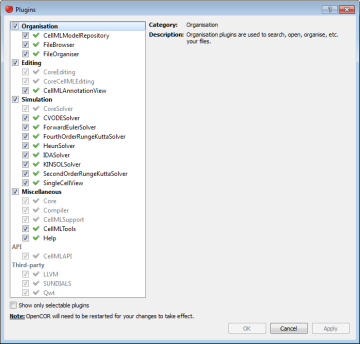
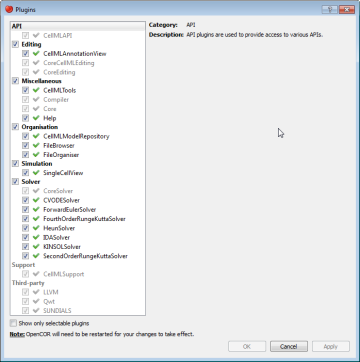
Some updates to our user documentation [ci skip].

diff --git a/doc/user/plugins/index.html b/doc/user/plugins/index.html
@@ -19,15 +19,15 @@
         </script>
 
         <p>
-            OpenCOR is a plugin-based application. This means that if no plugins are selected, then OpenCOR can do <a href="../userInterfaces/graphicalUserInterface.html">next to nothing</a>.
+            OpenCOR is a plugin-based application. This means that if no plugins are selected, then OpenCOR can do next to nothing (scroll down near the end of <a href="../userInterfaces/graphicalUserInterface.html">this page</a>).
         </p>
 
         <p>
-            As can be seen by opening the Plugins dialog box (<span class="opencor">either </span>by selecting the <code>Tools</code> | <code>Plugins...</code> menu<span class="opencor"> or by clicking <a href="gui://openPluginsDialogBox">here</a></span>) and by unselecting <code>Show only selectable plugins</code> (if necessary), OpenCOR supports different types of plugins (Organisation, Editing, Simulation, Miscellaneous, API and Third-party; see below):
+            As can be seen by opening the Plugins dialog box (<span class="opencor">either </span>by selecting the <code>Tools</code> | <code>Plugins...</code> menu<span class="opencor"> or by clicking <a href="gui://openPluginsDialogBox">here</a></span>) and by unselecting <code>Show only selectable plugins</code> (if necessary), OpenCOR supports different types of plugins:
         </p>
 
         <p class="center">
-            <a class="noHover" href="../res/image.html?image=../plugins/res/pics/screenshot01.png&caption=Plugins window"><img class="link" src="res/pics/screenshot01Small.png" width=360 height=344 alt="Plugins window"></a>
+            <a class="noHover" href="../res/image.html?image=../plugins/res/pics/screenshot01.png&caption=Plugins window"><img class="link" src="res/pics/screenshot01Small.png" width=360 height=362 alt="Plugins window"></a>
         </p>
 
         <p>
@@ -44,17 +44,15 @@
         </ul>
 
         <div class="section">
-            Organisation
+            API
         </div>
 
         <p>
-            Organisation plugins are used to search, open, organise, etc. your files:
+            (Non-selectable) API plugins are used to provide access to various APIs:
         </p>
 
         <ul>
-            <li><strong><a href="CellMLModelRepository.html">CellMLModelRepository</a>:</strong> a plugin to access the <a href="http://models.cellml.org/">CellML Model Repository</a>.</li>
-            <li><strong><a href="FileBrowser.html">FileBrowser</a>:</strong> a plugin to access your local files.</li>
-            <li><strong><a href="FileOrganiser.html">FileOrganiser</a>:</strong> a plugin to virtually organise your files.</li>
+            <li><strong>CellMLAPI:</strong> a plugin to access the <a href="http://cellml-api.sourceforge.net/">CellML API</a>.</li>
         </ul>
 
         <div class="section">
@@ -62,7 +60,7 @@
         </div>
 
         <p>
-            Editing plugins are used to edit part or all of your files using one of several possible views:
+            Editing plugins are used to edit your files:
         </p>
 
         <ul>
@@ -74,35 +72,8 @@
         </p>
 
         <ul>
-            <li><strong>CoreEditing:</strong> the core editing plugin.</li>
             <li><strong>CoreCellMLEditing:</strong> the core <a href="http://www.cellml.org/">CellML</a> editing plugin.</li>
-        </ul>
-
-        <div class="section">
-            Simulation
-        </div>
-
-        <p>
-            Simulation plugins are used to simulate or to help you simulate your files:
-        </p>
-
-        <ul>
-            <li><strong>CVODESolver:</strong> a plugin that uses <a href="http://computation.llnl.gov/casc/sundials/description/description.html#descr_cvode">CVODE</a> to solve ODEs.</li>
-            <li><strong>ForwardEulerSolver:</strong> a plugin that implements the <a href="http://en.wikipedia.org/wiki/Euler_method">Forward Euler method</a> to solve ODEs.</li>
-            <li><strong>FourthOrderRungeKuttaSolver:</strong> a plugin that implements the fourth-order <a href="http://en.wikipedia.org/wiki/Runge–Kutta_methods">Runge-Kutta method</a> to solve ODEs.</li>
-            <li><strong>HeunSolver:</strong> a plugin that implements the <a href="http://en.wikipedia.org/wiki/Heun's_method">Heun method</a> to solve ODEs.</li>
-            <li><strong>IDASolver:</strong> a plugin that uses <a href="http://computation.llnl.gov/casc/sundials/description/description.html#descr_ida">IDA</a> to solve DAEs.</li>
-            <li><strong>KINSOLSolver:</strong> a plugin that uses <a href="http://computation.llnl.gov/casc/sundials/description/description.html#descr_kinsol">KINSOL</a> to solve non-linear algebraic systems.</li>
-            <li><strong>SecondOrderRungeKuttaSolver:</strong> a plugin that implements the second-order <a href="http://en.wikipedia.org/wiki/Runge–Kutta_methods">Runge-Kutta method</a> to solve ODEs.</li>
-            <li><strong><a href="SingleCellView.html">SingleCellView</a>:</strong> a plugin to run single cell simulations.</li>
-        </ul>
-
-        <p>
-            There is also a non-selectable Simulation plugin:
-        </p>
-
-        <ul>
-            <li><strong>CoreSolver:</strong> the core solver plugin.</li>
+            <li><strong>CoreEditing:</strong> the core editing plugin.</li>
         </ul>
 
         <div class="section">
@@ -123,21 +94,72 @@
         </p>
 
         <ul>
-            <li><strong>Core:</strong> the core plugin.</li>
             <li><strong>Compiler:</strong> a plugin to support code compilation.</li>
-            <li><strong>CellMLSupport:</strong> a plugin to support <a href="http://www.cellml.org/">CellML</a>.</li>
+            <li><strong>Core:</strong> the core plugin.</li>
         </ul>
 
         <div class="section">
-            API
+            Organisation
         </div>
 
         <p>
-            (Non-selectable) API plugins are used to provide access to external APIs:
+            Organisation plugins are used to organise your files:
         </p>
 
         <ul>
-            <li><strong>CellMLAPI:</strong> a plugin to access the <a href="http://cellml-api.sourceforge.net/">CellML API</a>.</li>
+            <li><strong><a href="CellMLModelRepository.html">CellMLModelRepository</a>:</strong> a plugin to access the <a href="http://models.cellml.org/">CellML Model Repository</a>.</li>
+            <li><strong><a href="FileBrowser.html">FileBrowser</a>:</strong> a plugin to access your local files.</li>
+            <li><strong><a href="FileOrganiser.html">FileOrganiser</a>:</strong> a plugin to virtually organise your files.</li>
+        </ul>
+
+        <div class="section">
+            Simulation
+        </div>
+
+        <p>
+            Simulation plugins are used to simulate your files:
+        </p>
+
+        <ul>
+            <li><strong><a href="SingleCellView.html">SingleCellView</a>:</strong> a plugin to run single cell simulations.</li>
+        </ul>
+
+        <div class="section">
+            Solver
+        </div>
+
+        <p>
+            Solver plugins are used to provide access to various solvers:
+        </p>
+
+        <ul>
+            <li><strong>CVODESolver:</strong> a plugin that uses <a href="http://computation.llnl.gov/casc/sundials/description/description.html#descr_cvode">CVODE</a> to solve ODEs.</li>
+            <li><strong>ForwardEulerSolver:</strong> a plugin that implements the <a href="http://en.wikipedia.org/wiki/Euler_method">Forward Euler method</a> to solve ODEs.</li>
+            <li><strong>FourthOrderRungeKuttaSolver:</strong> a plugin that implements the fourth-order <a href="http://en.wikipedia.org/wiki/Runge–Kutta_methods">Runge-Kutta method</a> to solve ODEs.</li>
+            <li><strong>HeunSolver:</strong> a plugin that implements the <a href="http://en.wikipedia.org/wiki/Heun's_method">Heun method</a> to solve ODEs.</li>
+            <li><strong>IDASolver:</strong> a plugin that uses <a href="http://computation.llnl.gov/casc/sundials/description/description.html#descr_ida">IDA</a> to solve DAEs.</li>
+            <li><strong>KINSOLSolver:</strong> a plugin that uses <a href="http://computation.llnl.gov/casc/sundials/description/description.html#descr_kinsol">KINSOL</a> to solve non-linear algebraic systems.</li>
+            <li><strong>SecondOrderRungeKuttaSolver:</strong> a plugin that implements the second-order <a href="http://en.wikipedia.org/wiki/Runge–Kutta_methods">Runge-Kutta method</a> to solve ODEs.</li>
+        </ul>
+
+        <p>
+            There is also a non-selectable Solver plugin:
+        </p>
+
+        <ul>
+            <li><strong>CoreSolver:</strong> the core solver plugin.</li>
+        </ul>
+
+        <div class="section">
+            Support
+        </div>
+
+        <p>
+            (Non-selectable) support plugins are used to provide support for various third-party libraries and APIs:
+        </p>
+
+        <ul>
+            <li><strong>CellMLSupport:</strong> a plugin to support <a href="http://www.cellml.org/">CellML</a>.</li>
         </ul>
 
         <div class="section">
@@ -145,13 +167,13 @@
         </div>
 
         <p>
-            (Non-selectable) third-party plugins are used to provide access to third-party libraries:
+            (Non-selectable) third-party plugins are used to provide access to various third-party libraries:
         </p>
 
         <ul>
             <li><strong>LLVM:</strong> a plugin to access <a href="http://www.llvm.org/">LLVM</a> (as well as <a href="http://clang.llvm.org/">Clang</a>).</li>
-            <li><strong>SUNDIALS:</strong> a plugin to access <a href="http://computation.llnl.gov/casc/sundials/description/description.html#descr_cvode">CVODE</a>, <a href="http://computation.llnl.gov/casc/sundials/description/description.html#descr_ida">IDA</a> and <a href="http://computation.llnl.gov/casc/sundials/description/description.html#descr_kinsol">KINSOL</a> from the <a href="http://computation.llnl.gov/casc/sundials/description/description.html">SUNDIALS</a> library.</li>
             <li><strong>Qwt:</strong> a plugin to access <a href="http://qwt.sourceforge.net/">Qwt</a>.</li>
+            <li><strong>SUNDIALS:</strong> a plugin to access <a href="http://computation.llnl.gov/casc/sundials/description/description.html#descr_cvode">CVODE</a>, <a href="http://computation.llnl.gov/casc/sundials/description/description.html#descr_ida">IDA</a> and <a href="http://computation.llnl.gov/casc/sundials/description/description.html#descr_kinsol">KINSOL</a> from the <a href="http://computation.llnl.gov/casc/sundials/description/description.html">SUNDIALS</a> library.</li>
         </ul>
 
         <script type="text/javascript">

diff --git a/doc/user/plugins/CellMLAnnotationView.html b/doc/user/plugins/CellMLAnnotationView.html
@@ -55,7 +55,7 @@
         </p>
 
         <p>
-            From there, go through the list of BioModels.net qualifiers until you find the one that suits your needs best. Here, we will say that we want to use <code>bio:isVersionOf</code>:
+            From there, go through the list of BioModels.net qualifiers until you find the one that suits your needs best. Here, we will say that you want to use <code>bio:isVersionOf</code>:
         </p>
 
         <p class="center">
@@ -63,7 +63,7 @@
         </p>
 
         <p>
-            Now, we need to retrieve some possible ontological terms to describe our <code>sodium_channel</code> component. For this, we must enter a search term, which in our case is going to be <code>sodium</code>. OpenCOR is then going to use the <a href="http://semanticsbml.org/semanticSBML/plugin_restapidoc/index">RESTful service</a> from <a href="http://www.semanticsbml.org/">SemanticSBML</a> to provide us with a list of, here, 25 possible ontological terms:
+            Now, we need to retrieve some possible ontological terms to describe our <code>sodium_channel</code> component. For this, you must enter a search term, which in our case is going to be <code>sodium</code>. OpenCOR is then going to use the <a href="http://semanticsbml.org/semanticSBML/plugin_restapidoc/index">RESTful service</a> from <a href="http://www.semanticsbml.org/">SemanticSBML</a> to provide us with a list of, here, 25 possible ontological terms:
         </p>
 
         <p class="center">
@@ -71,7 +71,7 @@
         </p>
 
         <p>
-            A quick look through the list tells us that we probably want to use the ChEBI term, which identifier is 29101. If you want to know more about the ChEBI resource, you can click on its corresponding link:
+            A quick look through the list tells us that you probably want to use the ChEBI term, which identifier is 29101. If you want to know more about the ChEBI resource, you can click on its corresponding link:
         </p>
 
         <p class="center">
